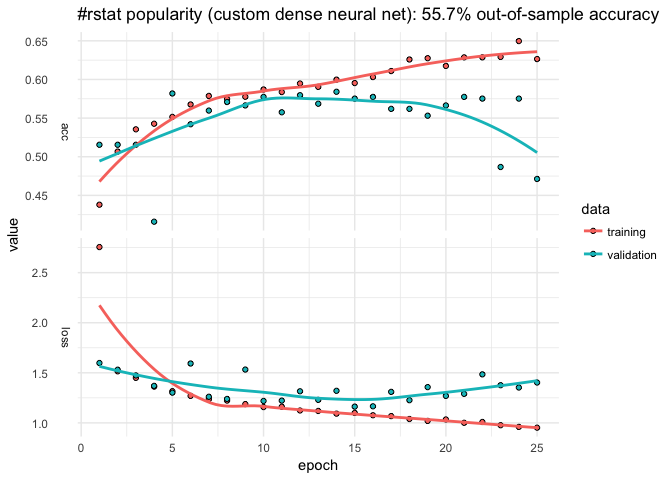
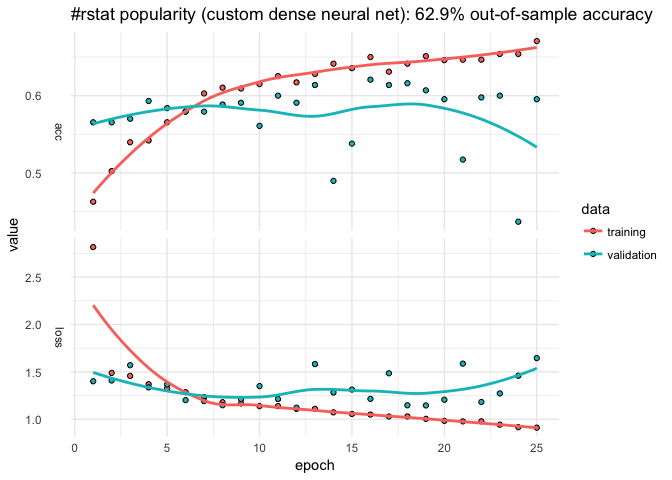
adding S3 predict example

diff --git a/README.md b/README.md
@@ -17,15 +17,14 @@ install_keras()                        # first time only. see ?install_keras() f
 library(rtweet)                        # see https://github.com/mkearney/rtweet
 ```
 
-Let's look at \#rstats tweets (excluding retweets) for a six-day period ending January 18, 2018 at 10:29. This happens to give us a nice reasonable number of observations to work with in terms of runtime (and the purpose of this document is to show syntax, not build particularly predictive models).
+Let's look at \#rstats tweets (excluding retweets) for a six-day period ending January 24, 2018 at 00:15. This happens to give us a nice reasonable number of observations to work with in terms of runtime (and the purpose of this document is to show syntax, not build particularly predictive models).
 
 ``` r
-library(rtweet)
 rstats <- search_tweets("#rstats", n = 10000, include_rts = FALSE)
 dim(rstats)
 ```
 
-    [1] 2831   42
+    [1] 2728   42
 
 Suppose our goal is to predict how popular tweets will be based on how often the tweet was retweeted and favorited (which correlate strongly).
 
@@ -33,7 +32,7 @@ Suppose our goal is to predict how popular tweets will be based on how often the
 cor(rstats$favorite_count, rstats$retweet_count, method="spearman")
 ```
 
-    [1] 0.7118774
+    [1] 0.7000378
 
 Since few tweeets go viral, the data are quite skewed towards zero.
 
@@ -45,11 +44,8 @@ Getting the Most out of Formulas
 Let's suppose we are interested in putting tweets into categories based on popularity but we're not sure how finely-grained we want to make distinctions. Some of the data, like `rstats$mentions_screen_name` comes in a list of varying lengths, so let's write a helper function to count non-NA entries.
 
 ``` r
-n <- function(x){
-  N <- matrix(nrow = length(x), 0)
-  for(i in which(!is.na(x)))
-    N[i] <- length(x[[i]])
-  return(N)
+n <- function(x) {
+  unlist(lapply(x, function(y){length(y) - is.na(y[1])}))
 }
 ```
 
@@ -57,12 +53,12 @@ Let's start with a dense neural net, the default of `kms`. We can use base R fun
 
 ``` r
 breaks <- c(-1, 0, 1, 10, 100, 1000, 10000)
-popularity <- kms("cut(retweet_count + favorite_count, breaks) ~ screen_name + source +  
+popularity <- kms(cut(retweet_count + favorite_count, breaks) ~ screen_name + source +  
                           n(hashtags) + n(mentions_screen_name) + 
                           n(urls_url) + nchar(text) +
                           grepl('photo', media_type) +
                           weekdays(created_at) + 
-                          format(created_at, '%H')", rstats)
+                          format(created_at, '%H'), rstats)
 plot(popularity$history) + ggtitle(paste("#rstat popularity:",
                                          paste0(round(100*popularity$evaluations$acc, 1), "%"),
                                          "out-of-sample accuracy")) + theme_minimal()
@@ -76,24 +72,24 @@ popularity$confusion
 
                    
                     (-1,0] (0,1] (1,10] (10,100] (100,1e+03] (1e+03,1e+04]
-      (-1,0]            29     5     33        1           0             0
-      (0,1]             16    27     70        0           0             0
-      (1,10]             2    17    187       24           0             0
-      (10,100]           1     0     75       59           0             0
-      (100,1e+03]        0     0     10        9           0             0
+      (-1,0]            40     4     29        2           0             0
+      (0,1]             28    18     64        2           0             0
+      (1,10]            10     5    191       22           0             0
+      (10,100]           0     2     54       48           3             0
+      (100,1e+03]        0     0      4       10           2             0
       (1e+03,1e+04]      0     0      0        0           0             0
 
-The model only classifies about 53% of the out-of-sample data correctly. The confusion matrix suggests that model does best with tweets that aren't retweeted but struggles with others. The `history` plot also suggests that out-of-sample accuracy is not very stable. We can easily change the breakpoints and number of epochs.
+The model only classifies about 55.6% of the out-of-sample data correctly. The confusion matrix suggests that model does best with tweets that aren't retweeted but struggles with others. The `history` plot also suggests that out-of-sample accuracy is not very stable. We can easily change the breakpoints and number of epochs.
 
 ``` r
 breaks <- c(-1, 0, 1, 25, 50, 75, 100, 500, 1000, 10000)
-popularity <- kms("cut(retweet_count + favorite_count, breaks) ~  
+popularity <- kms(cut(retweet_count + favorite_count, breaks) ~  
                           n(hashtags) + n(mentions_screen_name) + n(urls_url) +
                           nchar(text) +
                           screen_name + source +
                           grepl('photo', media_type) +
                           weekdays(created_at) + 
-                          format(created_at, '%H')", rstats, Nepochs = 10)
+                          format(created_at, '%H'), rstats, Nepochs = 10)
 plot(popularity$history) + ggtitle(paste("#rstat popularity (new breakpoints):",
                                          paste0(round(100*popularity$evaluations$acc, 1), "%"),
                                          "out-of-sample accuracy")) + theme_minimal()
@@ -120,7 +116,7 @@ Here we use `paste0` to add to the formula by looping over user IDs adding somet
 ``` r
 mentions <- unlist(rstats$mentions_user_id)
 mentions <- unique(mentions[which(table(mentions) > 5)]) # remove infrequent mentions
-mentions <- mentions[-1] # drop NA
+mentions <- mentions[!is.na(mentions)] # drop NA
 
 for(i in mentions)
   pop_input <- paste0(pop_input, " + ", "grepl(", i, ", mentions_user_id)")
@@ -141,7 +137,7 @@ The `input.formula` is used to create a sparse model matrix. For example, `rstat
 popularity$P
 ```
 
-    [1] 1216
+    [1] 1243
 
 Say we wanted to reshape the layers to transition more gradually from the input shape to the output.
 
@@ -162,13 +158,14 @@ Choosing a Batch Size
 By default, `kms` uses batches of 32. Suppose we were happy with our model but didn't have any particular intuition about what the size should be.
 
 ``` r
-accuracy <- matrix(nrow = 4, ncol = 3)
 Nbatch <- c(16, 32, 64)
+Nruns <- 4
+accuracy <- matrix(nrow = Nruns, ncol = length(Nbatch))
 colnames(accuracy) <- paste0("Nbatch_", Nbatch)
 
 est <- list()
-for(i in 1:nrow(accuracy)){
-  for(j in 1:ncol(accuracy)){
+for(i in 1:Nruns){
+  for(j in 1:length(Nbatch)){
    est[[i]] <- kms(pop_input, rstats, Nepochs = 2, batch_size = Nbatch[j])
    accuracy[i,j] <- est[[i]][["evaluations"]][["acc"]]
   }
@@ -178,14 +175,58 @@ colMeans(accuracy)
 ```
 
     Nbatch_16 Nbatch_32 Nbatch_64 
-    0.3998953 0.2563794 0.5479681 
+    0.3368697 0.4665254 0.3566179 
 
-For the sake of curtailing runtime, the number of epochs has been set arbitrarily short but, from those results, 64 is the best batch size.
+For the sake of curtailing runtime, the number of epochs has been set arbitrarily short but, from those results, 32 is the best batch size.
+
+Making predictions for new data
+===============================
+
+Thus far, we have been using the default settings for `kms` which first splits data into 80% training and 20% testing. Of the 80% training, a certain portion is set aside for validation and that's what produces the epoch-by-epoch graphs of loss and accuracy. The 20% is only used at the end to assess predictive accuracy. But suppose you wanted to make predictions on a new data set...
+
+``` r
+popularity <- kms(pop_input, rstats[1:1000,])
+predictions <- predict(popularity, rstats[1001:2000,])
+predictions$confusion
+```
+
+                   
+                    (-1,0] (0,1] (1,25] (25,50] (50,75] (75,100] (100,500]
+      (-1,0]            25    79     58       0       0        0         0
+      (0,1]              7    67    113       0       0        0         0
+      (1,25]             3    52    468       0       0        0         0
+      (25,50]            0     3     62       0       0        0         0
+      (50,75]            0     0     22       0       0        0         0
+      (75,100]           0     0     11       0       0        0         0
+      (100,500]          0     1     25       0       0        0         0
+      (500,1e+03]        0     0      4       0       0        0         0
+      (1e+03,1e+04]      0     0      0       0       0        0         0
+                   
+                    (500,1e+03] (1e+03,1e+04]
+      (-1,0]                  0             0
+      (0,1]                   0             0
+      (1,25]                  0             0
+      (25,50]                 0             0
+      (50,75]                 0             0
+      (75,100]                0             0
+      (100,500]               0             0
+      (500,1e+03]             0             0
+      (1e+03,1e+04]           0             0
+
+``` r
+predictions$accuracy
+```
+
+    [1] 0.56
+
+Because the formula creates a dummy variable for each screen name and mention, any given set of tweets is all but guaranteed to have different columns. `predict.kms_fit` is an `S3 method` that takes the new data and constructs a (sparse) model matrix that preserves the original structure of the training matrix. `predict` then returns the predictions along with a confusion matrix and accuracy score.
+
+If your newdata has the same observed levels of y and columns of x\_train (the model matrix), you can also use `keras::predict_classes` on `object$model`.
 
 Inputting a Compiled Keras Model
 ================================
 
-This section shows how to input a model compiled in the fashion typical to `library(keras)`, which is useful for more advanced models. Here is an example for `lstm` analogous to the [imbd wih Keras for example](https://tensorflow.rstudio.com/keras/articles/examples/imdb_lstm.html).
+This section shows how to input a model compiled in the fashion typical to `library(keras)`, which is useful for more advanced models. Here is an example for `lstm` analogous to the [imbd with Keras example](https://tensorflow.rstudio.com/keras/articles/examples/imdb_lstm.html).
 
 ``` r
 k <- keras_model_sequential()
